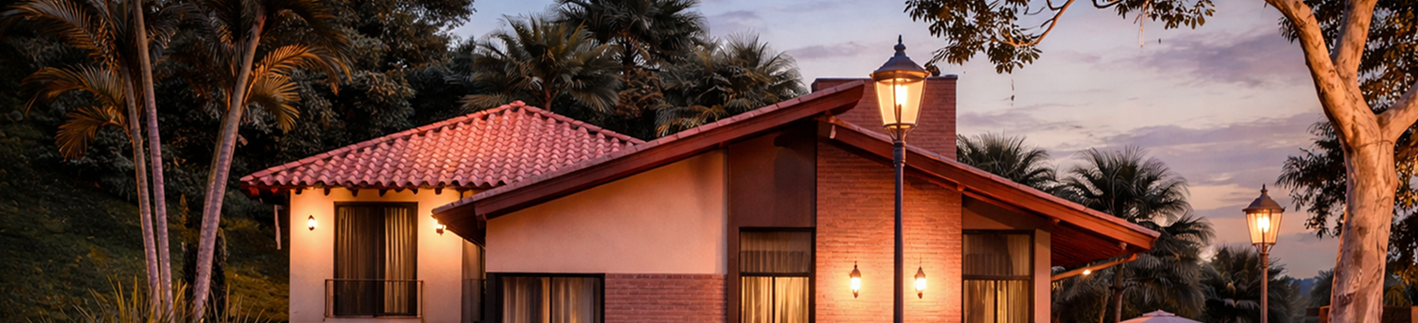
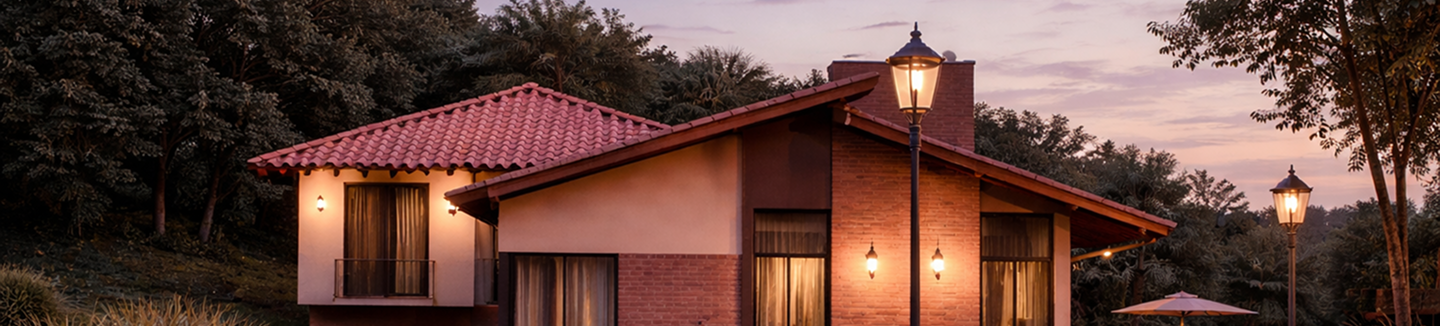
img+title text semi

diff --git a/index.html b/index.html
@@ -113,7 +113,7 @@
 
             <div   class="hero__content">
                 <p class="hero__subtitle">СТРОИТЕЛЬСТВО ДОМОВ В ЧЕЛЯБИНСКЕ И ОБЛАСТИ</p>
-                <h1 class="hero__title">ВАШ ИДЕАЛЬНЫЙ<br>БАЛАНС ПРИРОДЫ<br><span>И КОМФОРТА</span></h1>
+                <h1 class="hero__title">Готовые дома <br> «под ключ» от и до в посёлке Петровский • 2 от <span>СК ООО «МОНТАЖРЕМОНТ»</span></h1>
 
                 <!-- Полоски слайдера - ПОД ЗАГОЛОВКОМ -->
                 <div class="hero__slider-bars">
